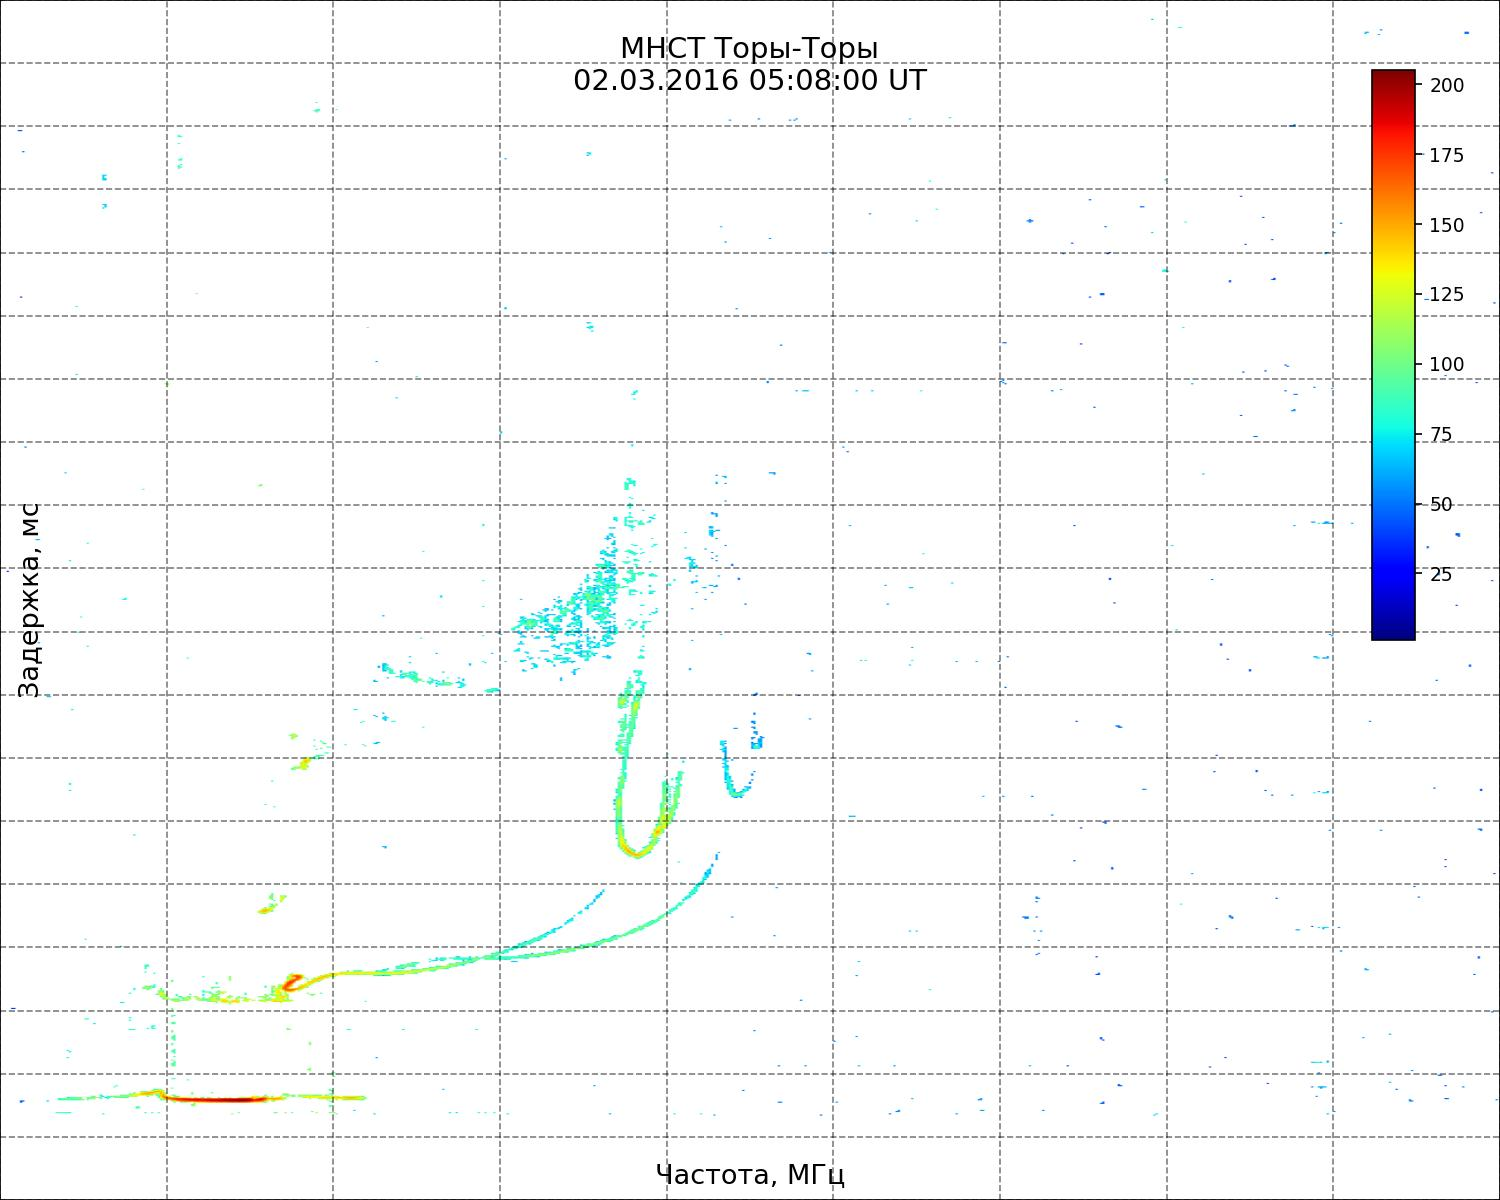
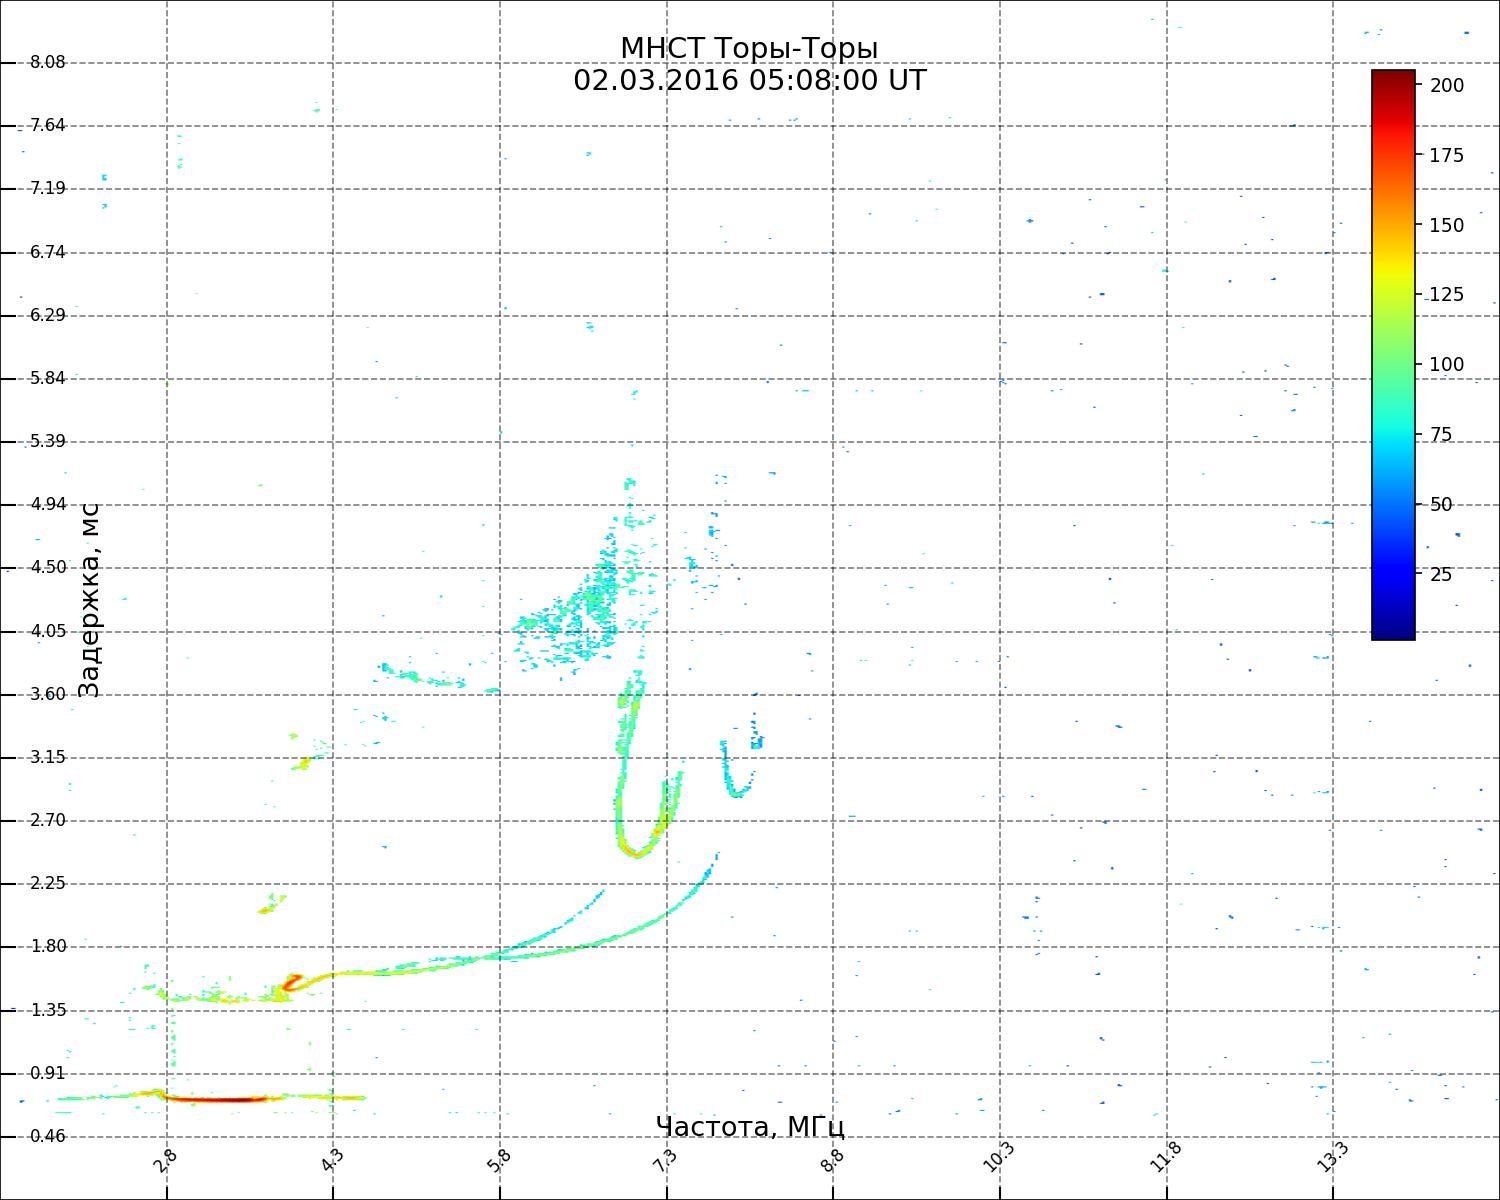
Добавила оси

diff --git a/main.py b/main.py
@@ -26,41 +26,60 @@ def show_ionogram(ionogram, ion_arr, save_dir="data_result", alpha_labels=1, for
     norm = Normalize(vmin=1, vmax=np.max(ion_arr))
     im = ax.imshow(ion_arr, origin='lower', cmap=cmap, norm=norm, aspect='auto', extent=[0, 1, 0, 1])
 
-    # Оси 
-    # Доработать, их не видно
+    # Оси
     num_y_ticks = 20
     num_x_ticks = 10
-    d_tick_pos = np.linspace(0, 1, num_y_ticks)
-    f_tick_pos = np.linspace(0, 1, num_x_ticks)
+    d_tick_pos = np.linspace(0, 1, num_y_ticks)[1:-1] # [1:-1] - Убираем крайние значения
+    f_tick_pos = np.linspace(0, 1, num_x_ticks)[1:-1]
     
     d_vals = np.linspace(
         min(ionogram.data, key=lambda x: x.dist).dist,
         max(ionogram.data, key=lambda x: x.dist).dist,
         num_y_ticks
-    )
+    )[1:-1]
     d_labels = [f'{v/300:.2f}' for v in d_vals]
 
     f_vals = np.linspace(
         ionogram.passport.start_freq,
         ionogram.passport.end_freq,
         num_x_ticks
-    )
-    f_labels = [f'{v/100:.1f}' for v in f_vals]
+    )[1:-1]
+    f_labels = [f'{v/1000:.1f}' for v in f_vals]
 
-    ax.set_yticks(d_tick_pos)
-    ax.set_yticklabels(d_labels, fontsize=10, color='black', alpha=alpha_labels)
+    # Отключаем тики
+    ax.set_xticks([])
+    ax.set_yticks([])
 
-    ax.set_xticks(f_tick_pos)
-    ax.set_xticklabels(f_labels, fontsize=10, color='black', rotation=45, alpha=alpha_labels)
+    # Рисуем сетку вручную поверх данных
+    for pos in f_tick_pos:
+        ax.axvline(x=pos, ymin=0, ymax=1, color='black', linestyle='--', linewidth=0.8, alpha=0.5)
+    
+    for pos in d_tick_pos:
+        ax.axhline(y=pos, xmin=0, xmax=1, color='black', linestyle='--', linewidth=0.8, alpha=0.5)
+    
+    # Рисуем тики и подписи вручную поверх данных
+    for i, (pos, label) in enumerate(zip(f_tick_pos, f_labels)):
+        # Вертикальные линии
+        ax.axvline(x=pos, ymin=0, ymax=0.01, color='black', alpha=alpha_labels, linewidth=1)
+        # Подписи
+        ax.text(pos, 0.02, label, transform=ax.transData, fontsize=8, 
+                color='black', alpha=alpha_labels, ha='center', va='bottom', rotation=45)
+    
+    for i, (pos, label) in enumerate(zip(d_tick_pos, d_labels)):
+        # Горизонтальные линии
+        ax.axhline(y=pos, xmin=0, xmax=0.01, color='black', alpha=alpha_labels, linewidth=1)
+        # Подписи
+        ax.text(0.02, pos, label, transform=ax.transData, fontsize=8,
+                color='black', alpha=alpha_labels, ha='left', va='center')
 
     # Сетка
     ax.grid(True, which='major', color='black', linestyle='--', linewidth=0.8, alpha=0.5)
 
     # Подписи осей
-    ax.text(0.5, 0.03, 'Частота, МГц', transform=ax.transAxes,
+    ax.text(0.5, 0.07, 'Частота, МГц', transform=ax.transAxes,
             fontsize=13, color='black', ha='center', va='top', alpha=alpha_labels)
 
-    ax.text(0.03, 0.5, 'Задержка, мс', transform=ax.transAxes,
+    ax.text(0.07, 0.5, 'Задержка, мс', transform=ax.transAxes,
             fontsize=13, color='black', ha='right', va='center', rotation=90, alpha=alpha_labels)
 
     # Заголовок
